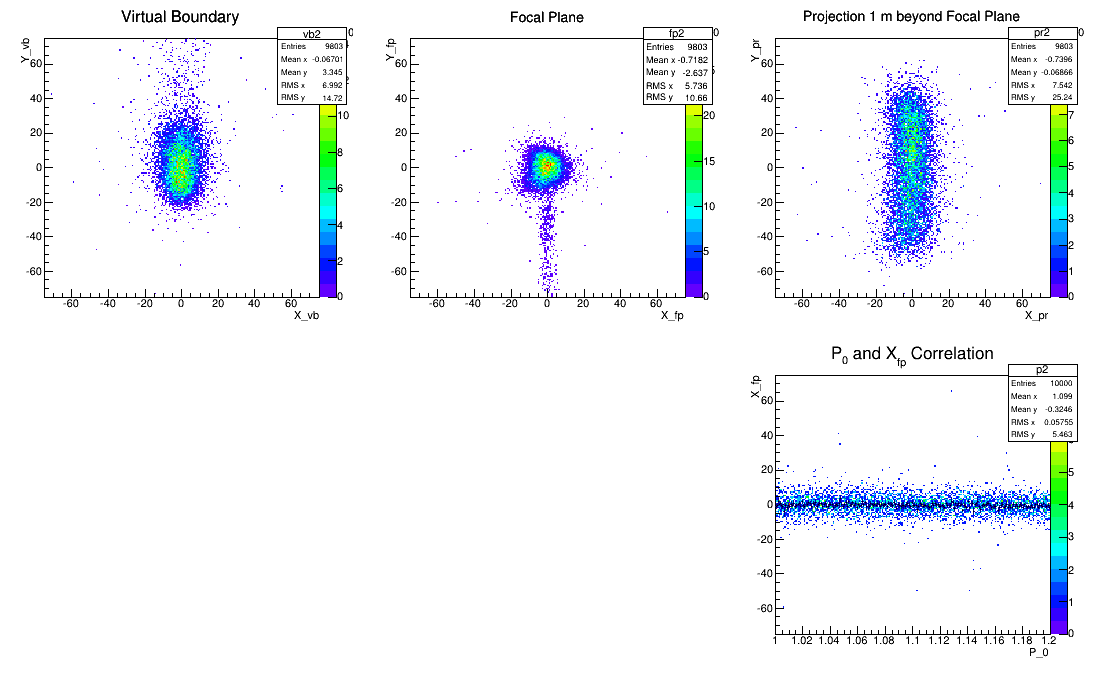
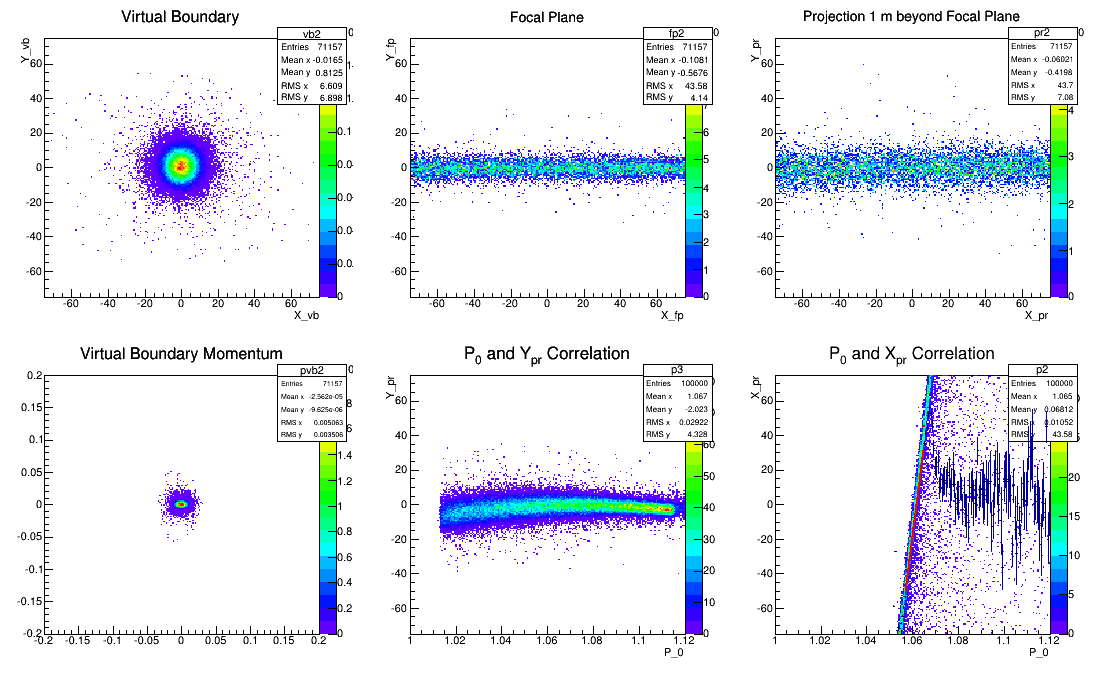
PREX tune

diff --git a/CREX_Project/correlations/project.C b/CREX_Project/correlations/project.C
@@ -5,8 +5,9 @@ project(){
   TH2F* vb = new TH2F("vb" , "Virtual Boundary", 200, -75, 75, 200, -75, 75);
   TH2F* fp = new TH2F("fp" , "Focal Plane"     , 200, -75, 75, 200, -75, 75);
   TH2F* pr = new TH2F("pr" , "Projection 1 m beyond Focal Plane", 200, -75, 75, 200, -75, 75);
-  TH2F* th = new TH2F("th" , "Theta and Y_{fp} Correlation", 200,   3,  7, 200, -75, 75);
-  TH2F* pvb= new TH2F("pvb", "Virtual Boundary Momentum", 200, -2, 2, 200, -2, 2);
+  TH2F* th = new TH2F("th" , "Theta and Y_{pr} Correlation", 200,   3,  7, 200, -75, 75);
+  TH2F* th2= new TH2F("th2", "Theta and X_{pr} Correlation", 200,   3,  7, 200, -75, 75);
+  TH2F* pvb= new TH2F("pvb", "Virtual Boundary Momentum", 200, -0.2, 0.2, 200, -0.2, 0.2);
   vb->GetXaxis()->SetTitle("X_vb");
   vb->GetYaxis()->SetTitle("Y_vb");
   fp->GetXaxis()->SetTitle("X_fp");
@@ -14,7 +15,9 @@ project(){
   pr->GetXaxis()->SetTitle("X_pr");
   pr->GetYaxis()->SetTitle("Y_pr");
   th->GetXaxis()->SetTitle("#theta_0");
-  th->GetYaxis()->SetTitle("Y_fp");
+  th->GetYaxis()->SetTitle("Y_pr");
+  th2->GetXaxis()->SetTitle("#theta_0");
+  th2->GetYaxis()->SetTitle("X_pr");
   pvb->GetXaxis()->SetTitle("p_X_vb");
   pvb->GetYaxis()->SetTitle("p_Y_vb");
   TCanvas* can = new TCanvas("can", "can", 20, 20, 1100, 700);
@@ -26,7 +29,9 @@ project(){
   can->cd(3);
   track0->Draw("Ypr_tr:Xpr_tr>>pr", "rate_208Pb", "COLZ");
   can->cd(4);
-  track0->Draw("Thetavb*Pvb : Phivb*Pvb >> pvb", "rate_208Pb", "COLZ");
+  track0->Draw("Thetavb_tr*Pvb/TMath::Sqrt( 1 + TMath::Power(Thetavb_tr, 2) + TMath::Power(Phivb_tr, 2) ) : Phivb_tr*Pvb/TMath::Sqrt( 1 + TMath::Power(Thetavb_tr, 2)+ TMath::Power(Phivb_tr, 2) ) >> pvb", "rate_208Pb", "COLZ");
+  can->cd(5);
+  track0->Draw("Xfp_tr:Theta0*TMath::RadToDeg()>>th2", "", "COLZ");
   can->cd(6);
   track0->Draw("Yfp_tr:Theta0*TMath::RadToDeg()>>th", "", "COLZ");
   th->ProfileX()->Draw("SAME");
@@ -38,10 +43,12 @@ project(){
   TFile* infile2 = new TFile("p.root", "READ");
   infile2->cd();
 
-  TH2F* vb2 = new TH2F("vb2", "Virtual Boundary", 200, -75, 75, 200, -75, 75);
-  TH2F* fp2 = new TH2F("fp2", "Focal Plane"     , 200, -75, 75, 200, -75, 75);
-  TH2F* pr2 = new TH2F("pr2", "Projection 1 m beyond Focal Plane", 200, -75, 75, 200, -75, 75);
-  TH2F* th2 = new TH2F("p2" , "P_{0} and X_{fp} Correlation", 200, 1., 1.2, 200, -75, 75);
+  TH2F* vb2 = new TH2F("vb2" , "Virtual Boundary", 200, -75, 75, 200, -75, 75);
+  TH2F* fp2 = new TH2F("fp2" , "Focal Plane"     , 200, -75, 75, 200, -75, 75);
+  TH2F* pr2 = new TH2F("pr2" , "Projection 1 m beyond Focal Plane", 200, -75, 75, 200, -75, 75);
+  TH2F* th2 = new TH2F("p2"  , "P_{0} and X_{pr} Correlation", 200, 1.00, 1.12, 200, -75, 75);
+  TH2F* th3 = new TH2F("p3"  , "P_{0} and Y_{pr} Correlation", 200, 1.00, 1.12, 200, -75, 75);
+  TH2F* pvb2= new TH2F("pvb2", "Virtual Boundary Momentum", 200, -0.2, 0.2, 200, -0.2, 0.2);
   vb2->GetXaxis()->SetTitle("X_vb");
   vb2->GetYaxis()->SetTitle("Y_vb");
   fp2->GetXaxis()->SetTitle("X_fp");
@@ -49,7 +56,11 @@ project(){
   pr2->GetXaxis()->SetTitle("X_pr");
   pr2->GetYaxis()->SetTitle("Y_pr");
   p2->GetXaxis()->SetTitle("P_0");
-  p2->GetYaxis()->SetTitle("X_fp");
+  p2->GetYaxis()->SetTitle("X_pr");
+  pvb->GetXaxis()->SetTitle("p_X_vb");
+  pvb->GetYaxis()->SetTitle("p_Y_vb");
+  p3->GetXaxis()->SetTitle("P_0");
+  p3->GetYaxis()->SetTitle("Y_pr");
   TCanvas* can2 = new TCanvas("can2", "can2", 40, 40, 1100, 700);
   can2->Divide(3, 2);
   can2->cd(1);
@@ -58,13 +69,19 @@ project(){
   track0->Draw("Yfp_tr:Xfp_tr>>fp2", "rate_208Pb", "COLZ");
   can2->cd(3);
   track0->Draw("Ypr_tr:Xpr_tr>>pr2", "rate_208Pb", "COLZ");
+  can2->cd(4);
+  track0->Draw("Thetavb_tr*Pvb/TMath::Sqrt( 1 + TMath::Power(Thetavb_tr, 2) + TMath::Power(Phivb_tr, 2) ) : Phivb_tr*Pvb/TMath::Sqrt( 1 + TMath::Power(Thetavb_tr, 2)+ TMath::Power(Phivb_tr, 2) ) >> pvb2", "rate_208Pb", "COLZ");
+  //can2->cd(4);
+  //track0->Draw("Thetavb*Pvb : Phivb*Pvb >> pvb2", "rate_208Pb", "COLZ");
+  can2->cd(5);
+  track0->Draw("Yfp_tr:P0>>p3", "", "COLZ");
   can2->cd(6);
   track0->Draw("Xfp_tr:P0>>p2", "", "COLZ");
   th2->ProfileX()->Draw("SAME");
   th2->ProfileX()->SetMarkerColor(2);
   th2->ProfileX()->SetLineColor(2);
-  TF1* f2 = new TF1("f2", "[0] + [1] * x", 2, 2.4);
-  th2->ProfileX()->Fit("f2", "", "", 2., 2.25);
+  TF1* f2 = new TF1("f2", "[0] + [1] * x", 1, 2);
+  th2->ProfileX()->Fit("f2", "", "", 1.057, 1.065);
 
   can->SaveAs("theta.png");
   can2->SaveAs("p.png");
